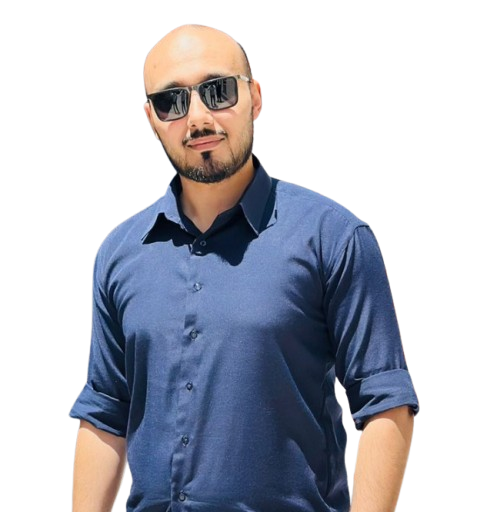
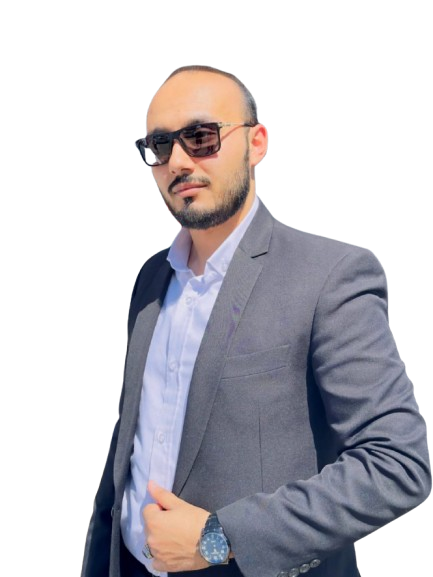
Edit About US

diff --git a/project_fitness.client/src/app/AOQ/about/about.component.html b/project_fitness.client/src/app/AOQ/about/about.component.html
@@ -169,21 +169,20 @@
           <div class="col-lg-3 col-sm-6">
             <div class="team-block">
               <div class="image-wrapper">
-                <img loading="lazy" src="assets/images/team/team-1.webp" alt="team-1">
+                <img loading="lazy" src="assets/images/team/Noor.png" alt="team-1" style="width: 306px; height: 407.75px;">
               </div>
               <div class="text-block text-center">
-                <span>Ivan Petrov</span>
-                <p>Endurance Training Coach</p>
+                <span>
+                  Nour Al-Shloul
+                </span>
+                <p>Scrum Master</p>
               </div>
             </div>
           </div>
           <div class="col-lg-3 col-sm-6">
             <div class="team-block">
               <div class="image-wrapper">
-                <img loading="lazy"
-                     src="assets/images/team/Malik.png"
-                     alt="team-2"
-                     style="max-width: 100%; height: 352.04px; object-fit: cover;">
+                <img loading="lazy" src="assets/images/team/Malik.png" alt="team-2" style="width: 306px; height: 407.75px;">
 
               </div>
               <div class="text-block text-center">
@@ -193,10 +192,24 @@
             </div>
           </div>
 
+
           <div class="col-lg-3 col-sm-6">
             <div class="team-block">
               <div class="image-wrapper">
-                <img loading="lazy" src="assets/images/team/Me-removebg-preview.png" alt="team-2">
+                <img loading="lazy" src="assets/images/team/Anas Alnajar.png" style="width: 306px; height: 407.75px;" alt="team-4">
+              </div>
+              <div class="text-block text-center">
+                <span>Anas Alnajjar</span>
+                <p>Full-Stack Web Developer</p>
+              </div>
+            </div>
+          </div>
+
+
+          <div class="col-lg-3 col-sm-6">
+            <div class="team-block">
+              <div class="image-wrapper">
+                <img loading="lazy" src="assets/images/team/Me-removebg-preview.png" alt="team-2" style="width: 306px; height: 407.75px;">
               </div>
               <div class="text-block text-center">
                 <span>Ahmad Qadomi</span>
@@ -218,17 +231,53 @@
           </div>
 
 
+
+
+
           <div class="col-lg-3 col-sm-6">
             <div class="team-block">
               <div class="image-wrapper">
-                <img loading="lazy" src="assets/images/team/Anas Alnajar.png" style="max-width: 100%; height: 352.04px; object-fit: cover;" alt="team-4">
+                <img loading="lazy" src="assets/images/team/ayah.png" style="width: 306px; height: 407.75px;" alt="team-4">
               </div>
               <div class="text-block text-center">
-                <span>Anas Alnajjar</span>
+                <span>Ayah Bani-Domi</span>
                 <p>Full-Stack Web Developer</p>
               </div>
             </div>
           </div>
+
+
+
+          <div class="col-lg-3 col-sm-6">
+            <div class="team-block">
+              <div class="image-wrapper">
+                <img loading="lazy" src="assets/images/team/Raneem.png" style="width: 306px; height: 407.75px;" alt="team-4">
+              </div>
+              <div class="text-block text-center">
+                <span>
+                  Raneem Alhalahlah
+                </span>
+                <p>Full-Stack Web Developer</p>
+              </div>
+            </div>
+          </div>
+
+
+
+          <div class="col-lg-3 col-sm-6">
+            <div class="team-block">
+              <div class="image-wrapper">
+                <img loading="lazy" src="assets/images/team/Rahaf.png" style="width: 306px; height: 407.75px;" alt="team-4">
+              </div>
+              <div class="text-block text-center">
+                <span>Rahaf AlShorman</span>
+                <p>Full-Stack Web Developer</p>
+              </div>
+            </div>
+          </div>
+
+
+
         </div>
       </div>
     </div>

diff --git a/project_fitness.client/src/app/home-page/home-page.component.html b/project_fitness.client/src/app/home-page/home-page.component.html
@@ -71,7 +71,7 @@
             <div class="col-lg-4 col-sm-6 order-2">
               <div class="success-box first-box wow fadeIn">
                 <div class="image-wrapper">
-                  <a routerLink="/categories">
+                  <a routerLink="/shop">
                     <img loading="lazy" src="assets/images/background/Sycle2.jpg" alt="success-1" class="box_img">
                   </a>
                 </div>
